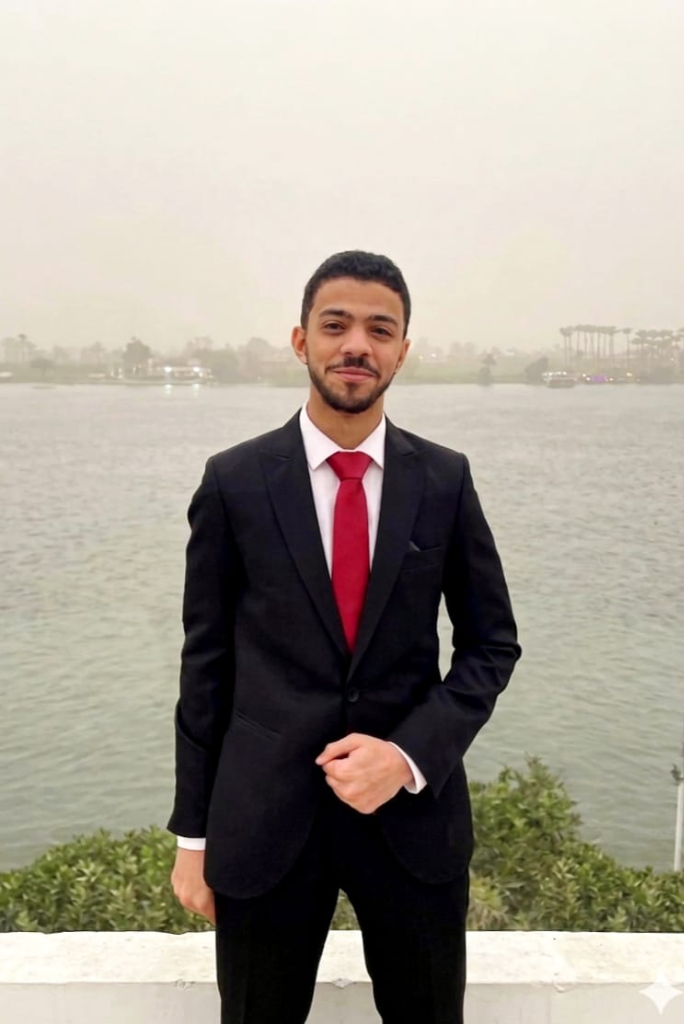
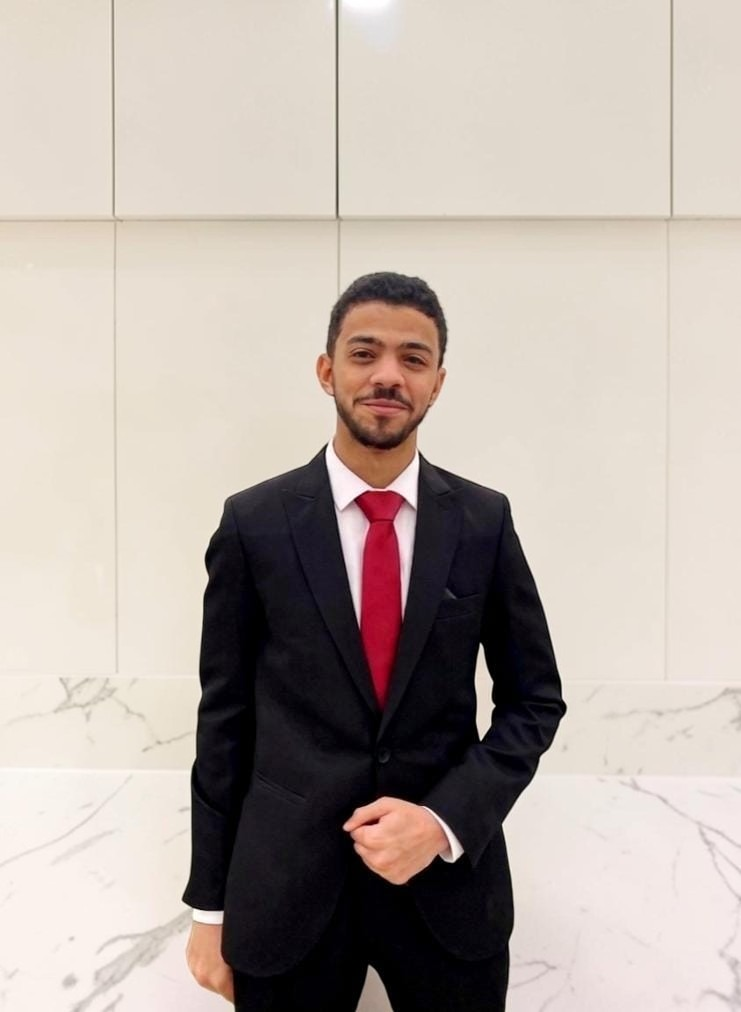
Asset: Replace About section profile image and optimize desktop/laptop responsiveness

diff --git a/src/components/sections/About.tsx b/src/components/sections/About.tsx
@@ -79,7 +79,7 @@ export const About: React.FC = () => {
           
           {/* Image Container with Premium Borders */}
           <div className="w-full lg:w-5/12 flex justify-center z-10">
-            <div className="relative group w-72 sm:w-80 lg:w-full max-w-sm">
+            <div className="relative group w-72 sm:w-80 lg:w-full max-w-sm lg:max-w-md">
               {/* Outer Decorative Gradient Frame */}
               <div className="absolute -inset-1 bg-premium-gradient rounded-[2rem] blur-lg opacity-30 group-hover:opacity-70 transition duration-1000 -z-10"></div>
               
@@ -87,7 +87,7 @@ export const About: React.FC = () => {
               <div
                 ref={imageRef}
                 onMouseMove={handleImageMouseMove}
-                className="relative aspect-[4/5] flex items-center justify-center z-10 group/about cursor-pointer rounded-[2rem] transition-shadow duration-500 hover:shadow-[0_0_40px_rgb(var(--accent-cyan)_/_0.3)]"
+                className="relative aspect-[3/4] sm:aspect-[4/5] flex items-center justify-center z-10 group/about cursor-pointer rounded-[2rem] transition-shadow duration-500 hover:shadow-[0_0_40px_rgb(var(--accent-cyan)_/_0.3)]"
                 style={{
                   '--mouse-x': `${imageMousePos.x}px`,
                   '--mouse-y': `${imageMousePos.y}px`,
@@ -108,7 +108,7 @@ export const About: React.FC = () => {
                   <img 
                     src={aboutImg} 
                     alt={t('hero.name')} 
-                    className="w-full h-full object-cover grayscale-[15%] group-hover/about:grayscale-0 transition-transform duration-700 scale-100 group-hover/about:scale-105"
+                    className="w-full h-full object-cover object-top grayscale-[15%] group-hover/about:grayscale-0 transition-transform duration-700 scale-100 group-hover/about:scale-105"
                   />
                   {/* Subtle bottom vignette — only in dark mode */}
                   <div className="absolute inset-0 bg-gradient-to-t from-black/40 via-transparent to-transparent opacity-0 dark:opacity-60 z-10 pointer-events-none"></div>
